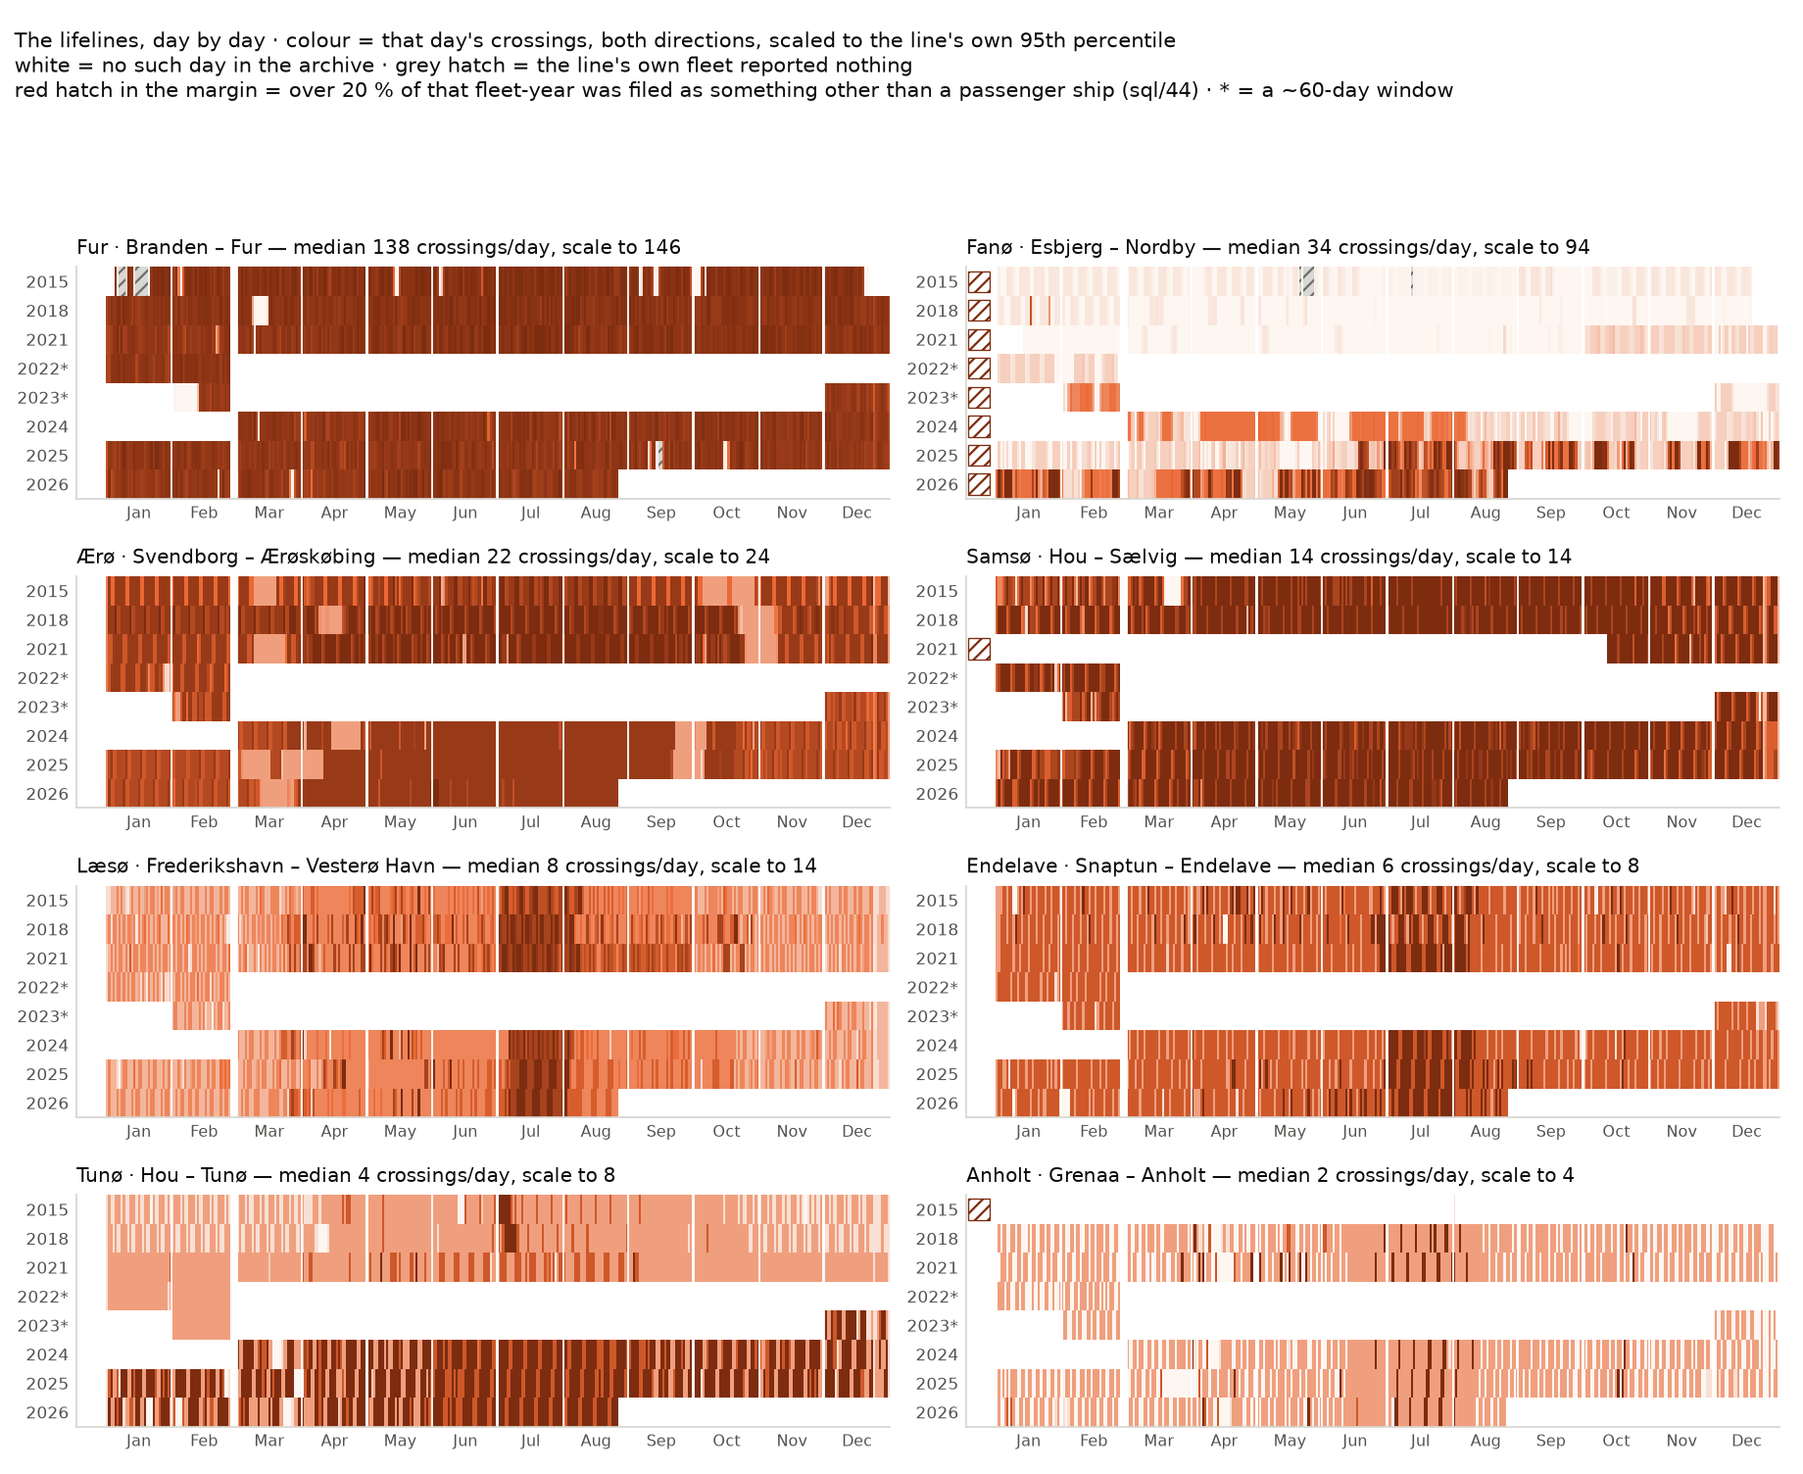
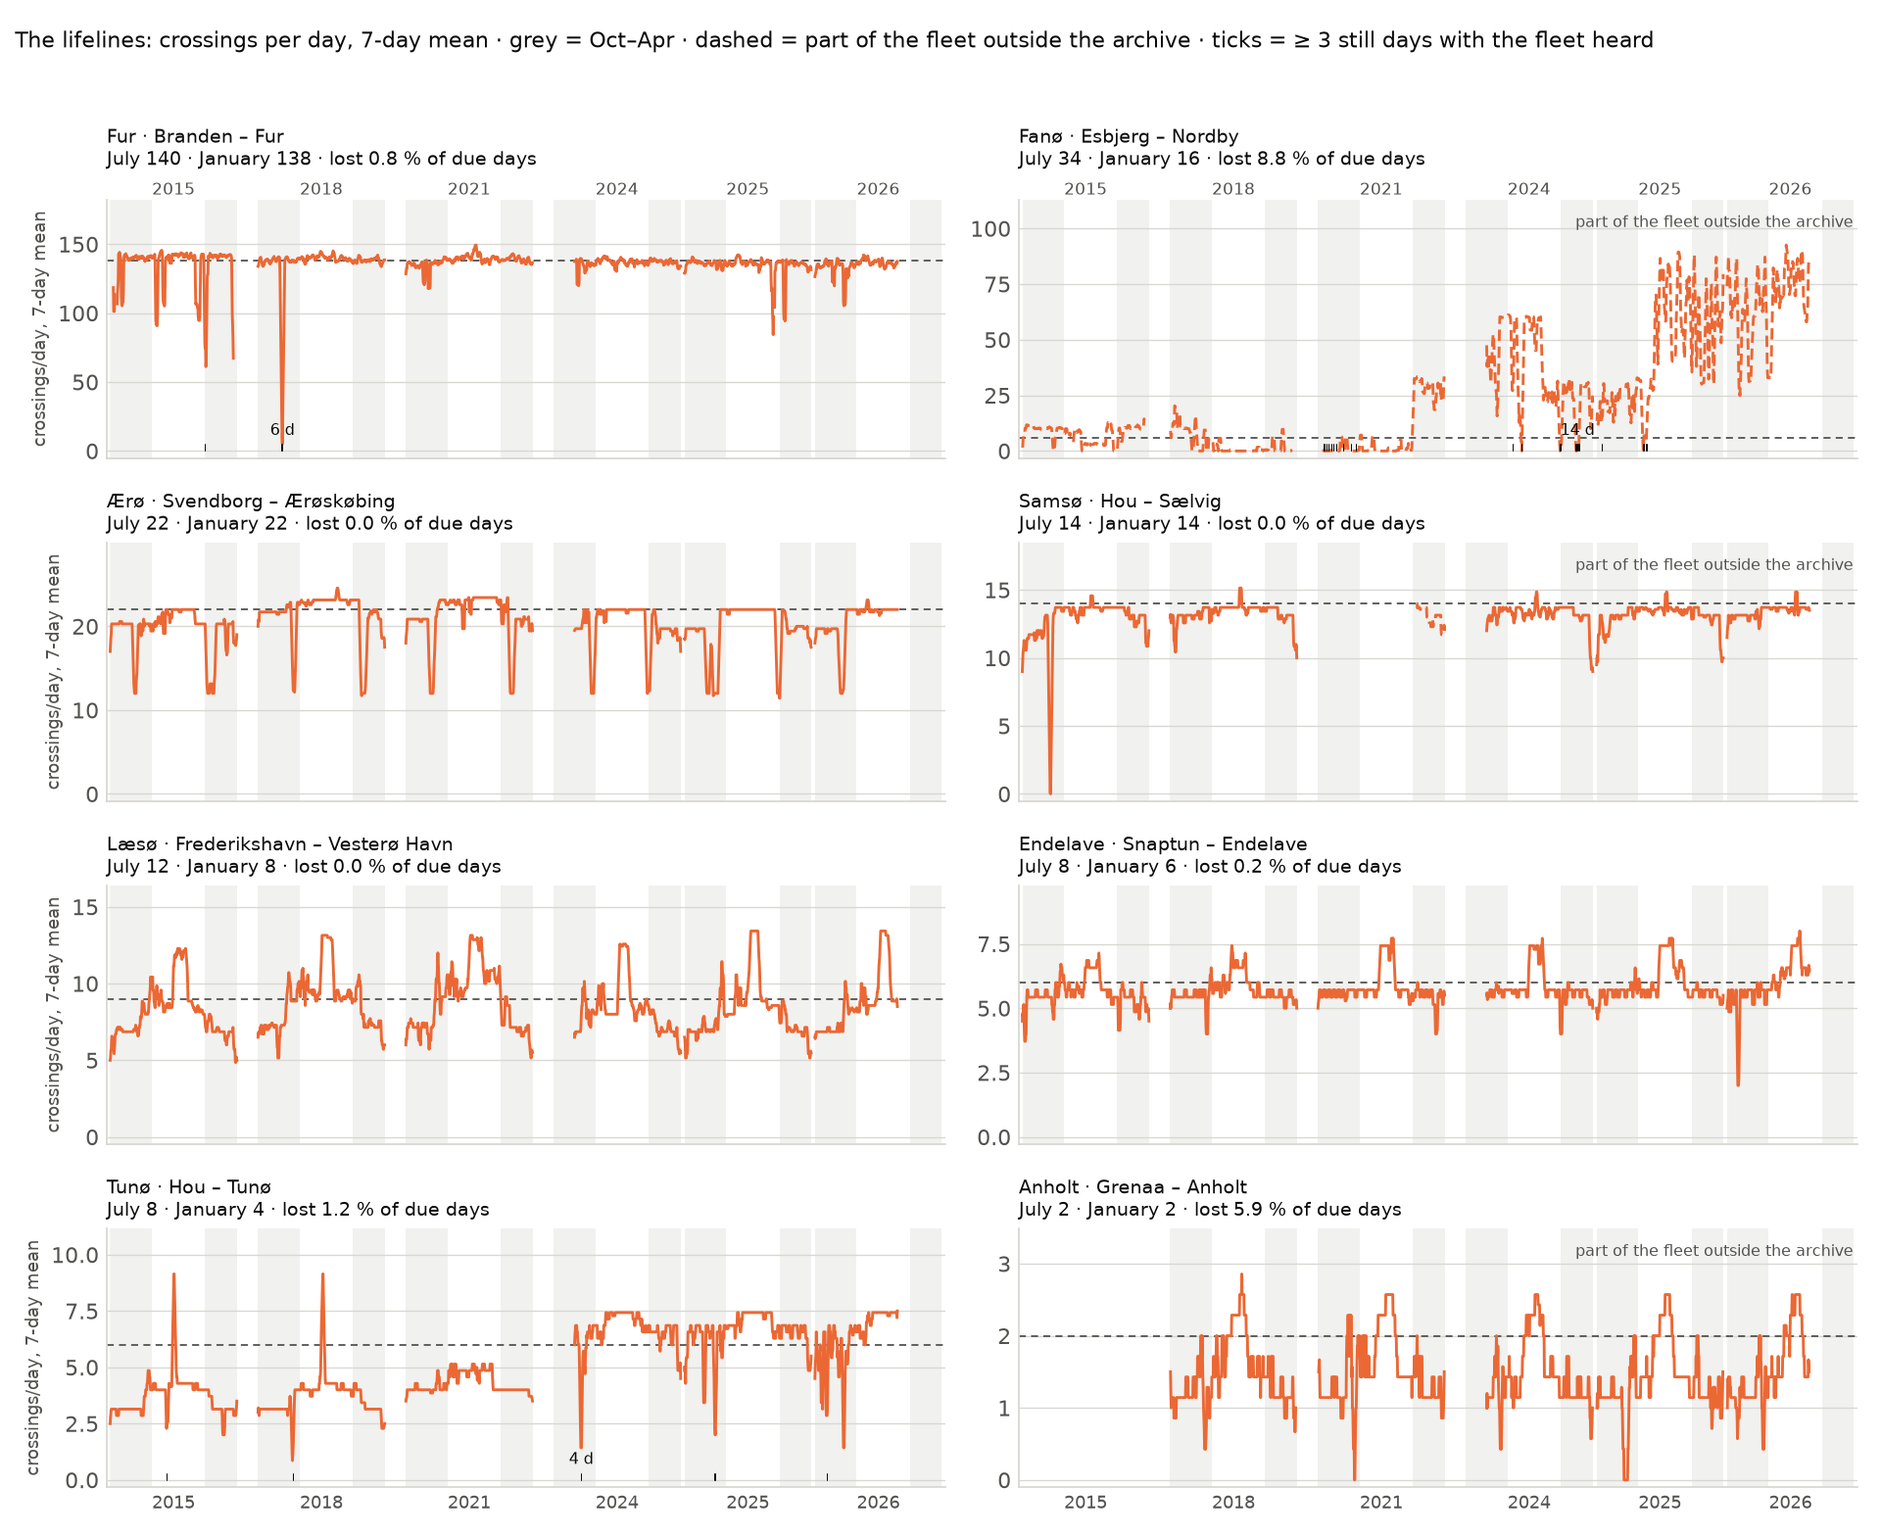
fix(s8): replace the lifelines chart
Per-line 7-day mean of crossings per day on a shared calendar of the six
loaded years, winter band, still-day ticks, dashed years where part of the
fleet is outside the archive. The day-grained heatmap said nothing at a
glance.

Claude-Session: https://claude.ai/code/session_016nqqntXCacnT2ScYyqbq6U

diff --git a/notes/plot_ch03.py b/notes/plot_ch03.py
@@ -45,20 +45,15 @@ import sys
 import matplotlib
 matplotlib.use("Agg")
 import matplotlib.pyplot as plt
-from matplotlib.colors import LinearSegmentedColormap
-from matplotlib.patches import Rectangle
 
 from plot import GRID, IMG, INK, MUTED, ROOT, rows, tidy
 
 FERRY = "#eb6834"                      # the project's ferry orange, plot.GROUPS[1]
-PALE = "#f7d9cb"
 SLATE = "#5b6b73"                      # the contrast series: the big lines
 HIDDEN = "#7d2c10"                     # the hidden-fleet marker
 YEARS = [2015, 2018, 2021, 2024, 2025, 2026]
 WINDOWS = [2022, 2023]                 # storm windows, ~60 winter days each
 KINDS = {"island", "domestic", "international", "foreign", "harbour"}
-MONTHS = ["Jan", "Feb", "Mar", "Apr", "May", "Jun",
-          "Jul", "Aug", "Sep", "Oct", "Nov", "Dec"]
 HIDDEN_MARK = 0.2                      # hidden_share above which chart 1 marks a row
 
 # Chart 1. Eight small-island lifelines, one per island, chosen for range: the
@@ -630,77 +625,187 @@ def replacements(spd):
 
 
 # ------------------------------------------------------------- charts ----
-RAMP = LinearSegmentedColormap.from_list("ferry", ["#fdf6f1", PALE, FERRY, "#7d2c10"])
+def month_median(panel, line, month):
+    """Median crossings on the WEEKDAYS of one month the fleet was heard on.
 
-
-def chart_lifelines(panel, hid_line):
-    """Chart 1 -- eight island lines, every loaded day, six years and two windows.
-
-    One panel per line; one row per loaded year; columns are the calendar,
-    twelve blocks of 31 so the months line up across years of different length.
-    Colour is that day's crossings against the line's own 95th percentile, so
-    the Fur ferry's 138 and Anholt's 2 both fill their scale. A day the archive
-    does not hold is white; a day on which the line's own fleet reported
-    NOTHING is drawn grey and hatched, never as a zero.
-    A hatched bar in the left margin marks a line-year in which more than 20 %
-    of the fleet's reporting days were filed as something other than a
-    passenger ship (sql/44) — those rows are a lower bound, not a measurement.
+    The same figure the § 2 table prints, so a panel subtitle and the note
+    cannot drift apart: weekdays only, because a July that pooled Sundays in
+    would not be the number finding 26 quotes.
     """
-    order = sorted(YEARS + WINDOWS)
-    ny = len(order)
-    fig, axes = plt.subplots(4, 2, figsize=(11.5, 9.4))
+    vals = [row["crossings"] for row in panel
+            if row["line"] == line and loaded(row) and row["fleet_positions"] > 0
+            and row["day"][5:7] == month and row["daytype"] == "weekday"]
+    return statistics.median(vals) if vals else None
+
+
+def still_runs(days, minimum=3):
+    """Maximal runs of >= `minimum` consecutive dates in a sorted list."""
+    out, cur = [], []
+    for day in sorted(days):
+        if cur and days_between(cur[-1], day) == 1:
+            cur.append(day)
+        else:
+            if len(cur) >= minimum:
+                out.append(cur)
+            cur = [day]
+    if len(cur) >= minimum:
+        out.append(cur)
+    return out
+
+
+def rolling(series, window=7, need=4):
+    """Centred `window`-day mean of {date: crossings}, over signal days only.
+
+    Returns {date: mean}. A date whose window holds fewer than `need` signal
+    days has no value at all, so a week the fleet was not heard is a GAP in the
+    drawn line and never a zero — the distinction the whole chapter turns on.
+    """
+    half = window // 2
+    keys = sorted(series)
+    out = {}
+    for day in keys:
+        vals = [series[shift(day, k)] for k in range(-half, half + 1)
+                if shift(day, k) in series]
+        if len(vals) >= need:
+            out[day] = sum(vals) / len(vals)
+    return out
+
+
+def chart_lifelines(panel, hid_line, per_ly):
+    """Chart 1 -- eight island lines as one contiguous six-year time series.
+
+    One panel per line; x is calendar time with the loaded years laid end to
+    end (2015 | 2018 | 2021 | 2024 | 2025 | 2026) and a visible gap where the
+    archive skips. The two 59-day winter windows are not drawn: a 59-day stub
+    beside a full year reads as a collapse in traffic, which is the one thing
+    this chart must not say.
+    y is crossings per day as a 7-day mean over the days the fleet was heard;
+    a week of silence is a gap in the line, never a zero. The dashed grey rule
+    is the line's own May-Sep median, so the winter shortfall is legible
+    without a second axis, and the grey band is Oct-Apr — sql/41's own season
+    split.
+    The dark ticks at y = 0 are runs of three days or more on which the line
+    lay still on a day of the week it normally sails; the longest run in each
+    panel carries its length. A year drawn DASHED is a year in which more than
+    20 % of the line's fleet-days were filed as something other than a
+    passenger ship (sql/44): the line is a lower bound there, not a
+    measurement.
+    """
+    order = [y for y in YEARS]
+    # Consecutive years touch (a short gap so the blocks are countable); a jump
+    # in the archive gets a wide one, so the eye reads 2015 | 2018 as a skip and
+    # 2024 | 2025 as a turn of the year.
+    NEAR, FAR = 10, 60
+    offset, x0 = {}, 0
+    for i, year in enumerate(order):
+        offset[year] = x0
+        length = (datetime.date(year + 1, 1, 1) - datetime.date(year, 1, 1)).days
+        nxt = order[i + 1] if i + 1 < len(order) else None
+        x0 += length + (0 if nxt is None else NEAR if nxt == year + 1 else FAR)
+
+    def xof(day):
+        d = datetime.date.fromisoformat(day)
+        return offset[d.year] + (d - datetime.date(d.year, 1, 1)).days
+
+    index = collections.defaultdict(dict)
+    for row in panel:
+        if loaded(row):
+            index[row["line"]][row["day"]] = row
+
+    fig, axes = plt.subplots(4, 2, figsize=(12.0, 9.8), sharex=True)
+    top_row = set(axes[0])
     for ax, (line, island) in zip(axes.flatten(), LIFELINES):
-        vals = [row["crossings"] for row in panel
-                if row["line"] == line and loaded(row) and row["crossings"] > 0]
-        top = statistics.quantiles(vals, n=20)[-1] if len(vals) > 20 else max(vals)
-        img = [[(1.0, 1.0, 1.0)] * (12 * 31) for _ in range(ny)]
-        silent = []
-        for row in panel:
-            if row["line"] != line or row["year"] not in order:
+        rows_by_day = index[line]
+        drawn_years = 0
+        top = 0
+        for year in order:
+            days = {d: r["crossings"] for d, r in rows_by_day.items()
+                    if r["year"] == year and r["fleet_positions"] > 0}
+            if not days:
                 continue
-            r = order.index(row["year"])
-            month, day = int(row["day"][5:7]), int(row["day"][8:10])
-            c = (month - 1) * 31 + day - 1
-            if row["fleet_positions"] == 0 and row["crossings"] == 0:
-                silent.append((c, r))
-                img[r][c] = (0.85, 0.85, 0.84)
-            else:
-                img[r][c] = RAMP(min(row["crossings"] / top, 1.0))[:3]
-        ax.imshow(img, aspect="auto", interpolation="nearest",
-                  extent=(0, 12 * 31, ny - 0.5, -0.5))
-        for c, r in silent:                       # hatch, so grey is not a level
-            ax.add_patch(Rectangle((c, r - 0.5), 1, 1, facecolor="none",
-                                   edgecolor="#6f6d68", hatch="////",
-                                   linewidth=0.0))
-        for r, year in enumerate(order):          # the hidden-fleet margin
-            share = hidden_share(hid_line, line, year)
-            if share > HIDDEN_MARK:
-                ax.add_patch(Rectangle((-13, r - 0.36), 10, 0.72,
-                                       facecolor="white", edgecolor=HIDDEN,
-                                       hatch="////", linewidth=0.6,
-                                       clip_on=False))
-        for m in range(1, 12):
-            ax.axvline(m * 31, color="white", linewidth=0.8)
-        ax.set_xlim(-14, 12 * 31)
-        ax.set_yticks(range(ny))
-        ax.set_yticklabels([f"{y}*" if y in WINDOWS else str(y) for y in order],
-                           fontsize=7.5)
-        ax.set_xticks([m * 31 + 15.5 for m in range(12)])
-        ax.set_xticklabels(MONTHS, fontsize=7)
-        median = statistics.median(vals) if vals else 0
-        ax.set_title(f"{island} · {line} — median {median:.0f} crossings/day, "
-                     f"scale to {top:.0f}", color=INK, fontsize=9, loc="left")
+            smooth = rolling(days)
+            if not smooth:
+                continue
+            drawn_years += 1
+            hidden = hidden_share(hid_line, line, year) > HIDDEN_MARK
+            # one segment per unbroken stretch, so a silent week is a hole in
+            # the line and not a dive to zero
+            style = (0, (4, 2)) if hidden else "solid"
+            seg_x, seg_y, prev = [], [], None
+            for day in sorted(smooth):
+                if prev is not None and days_between(prev, day) > 1:
+                    ax.plot(seg_x, seg_y, color=FERRY, linewidth=1.3,
+                            linestyle=style)
+                    seg_x, seg_y = [], []
+                seg_x.append(xof(day))
+                seg_y.append(smooth[day])
+                prev = day
+            ax.plot(seg_x, seg_y, color=FERRY, linewidth=1.3, linestyle=style)
+            top = max(top, max(smooth.values()))
+            # Oct-Apr, sql/41's own season split, shaded under the curve
+            for a, b in (("01-01", "04-30"), ("10-01", "12-31")):
+                ax.axvspan(xof(f"{year}-{a}"), xof(f"{year}-{b}"),
+                           color=GRID, alpha=0.35, linewidth=0, zorder=0)
+        # (new) every panel must carry nearly the whole archive; a line that
+        # lost a year to a filter would otherwise be read as a line that ran.
+        assert drawn_years >= 5, \
+            f"{line}: only {drawn_years} of {len(order)} loaded years drawn"
+
+        top = top * 1.22 or 1
+        ax.set_ylim(-0.03 * top, top)
+        tick_y = 0.012 * top
+        median = month_median(panel, line, "07")
+        summer = [r["crossings"] for r in rows_by_day.values()
+                  if r["season"] == "may-sep" and r["fleet_positions"] > 0]
+        if summer:
+            ax.axhline(statistics.median(summer), color=MUTED, linewidth=0.8,
+                       linestyle=(0, (4, 3)), zorder=1)
+        # the still-day ticks
+        due = [d for d, r in rows_by_day.items() if zero_kind(r) == "lay still"
+               and r["baseline"] > 0]
+        runs = still_runs(due)
+        for run in runs:
+            ax.plot([xof(run[0]), xof(run[-1]) + 1], [tick_y, tick_y],
+                    color=INK, linewidth=3.4, solid_capstyle="butt", zorder=4)
+        if runs:
+            longest = max(runs, key=len)
+            ax.annotate(f"{len(longest)} d",
+                        (xof(longest[0]) + len(longest) / 2, tick_y),
+                        xytext=(0, 6), textcoords="offset points", color=INK,
+                        fontsize=7, ha="center", zorder=5)
+        if any(hidden_share(hid_line, line, y) > HIDDEN_MARK for y in order):
+            ax.annotate("part of the fleet outside the archive", (0.995, 0.94),
+                        xycoords="axes fraction", color=MUTED, fontsize=7,
+                        ha="right", va="top")
+        cell = collections.Counter()
+        for year in order:
+            if (line, year) in per_ly:
+                cell.update(per_ly[(line, year)])
+        lost = 100 * cell["lay still, scheduled"] / cell["days"]
+        ax.set_title(f"{island} · {line}\nJuly {fmt(median)} · January "
+                     f"{fmt(month_median(panel, line, '01'))} · lost "
+                     f"{lost:.1f} % of due days",
+                     color=INK, fontsize=8.5, loc="left",
+                     pad=16 if ax in top_row else 6)
         tidy(ax)
-        ax.grid(False)
-        ax.tick_params(colors=MUTED, length=0)
-    fig.suptitle("The lifelines, day by day · colour = that day's crossings, "
-                 "both directions, scaled to the line's own 95th percentile\n"
-                 "white = no such day in the archive · grey hatch = the line's "
-                 "own fleet reported nothing\nred hatch in the margin = over "
-                 "20 % of that fleet-year was filed as something other than a "
-                 "passenger ship (sql/44) · * = a ~60-day window",
-                 color=INK, fontsize=9.5, x=0.008, ha="left")
-    fig.tight_layout(rect=(0, 0, 1, 0.925))
+        ax.grid(axis="y", color=GRID, linewidth=0.6)
+        ax.set_xlim(-NEAR, x0 + NEAR)
+    for ax in axes[:, 0]:
+        ax.set_ylabel("crossings/day, 7-day mean", color=MUTED, fontsize=8)
+    for ax in axes[-1]:
+        ax.set_xticks([offset[y] + 182 for y in order])
+        ax.set_xticklabels([str(y) for y in order], fontsize=8)
+    for ax in axes[0]:                     # the year label at each block's top
+        for year in order:
+            ax.annotate(str(year), (offset[year] + 182, 1.005),
+                        xycoords=("data", "axes fraction"), color=MUTED,
+                        fontsize=7.5, ha="center", va="bottom",
+                        annotation_clip=False)
+    fig.suptitle("The lifelines: crossings per day, 7-day mean · grey = "
+                 "Oct–Apr · dashed = part of the fleet outside the archive · "
+                 "ticks = ≥ 3 still days with the fleet heard",
+                 color=INK, fontsize=10, x=0.008, ha="left")
+    fig.tight_layout(rect=(0, 0, 1, 0.965))
     fig.savefig(IMG / "ch03-lifelines.png", dpi=160, facecolor="white")
 
 
@@ -1347,7 +1452,7 @@ if __name__ == "__main__":
              f"— positions {hals[day]['fleet_positions']}, moving "
              f"{hals[day]['fleet_moving']}")
 
-    chart_lifelines(panel, hid_line)
+    chart_lifelines(panel, hid_line, per_ly)
     dropped = chart_storm(panel, runs, island_lines)
     picks = list(dict.fromkeys(r["line"] for r in replacements(spd)
                                if r["kind"] in ("island", "domestic")))[:4]

diff --git a/notes/ch03-findings.md b/notes/ch03-findings.md
@@ -160,19 +160,24 @@ order shows up as two changed integers rather than as a plausible chart.
 
 ## 2. The lifelines
 
-![The lifelines, day by day](img/ch03-lifelines.png)
+![The lifelines: crossings per day, 7-day mean](img/ch03-lifelines.png)
 
 *`sql/41_ferry_daily.sql` and `sql/44_hidden_fleet.sql`. Eight island lines, one
-row per loaded year, one column per calendar day (twelve blocks of 31, so the
-months line up across years of different length). Colour is that day's
-crossings in both directions, scaled to that line's own 95th percentile — the
-Fur ferry's 138 and Anholt's 2 each fill their own scale. White is a day the
-archive does not hold; grey hatch is a day on which the line's own fleet
-reported **nothing**, drawn as absence and never as a zero. **The red hatch in
-the left margin marks a line-year in which more than 20 % of the fleet's
-reporting days were filed as something other than a passenger ship** — Fanø in
-all eight rows, Samsø in 2021, Anholt in 2015. `*` marks the two 59-day winter
-windows.*
+panel each, on a shared calendar: the six loaded years laid end to end —
+2015 | 2018 | 2021 | 2024 | 2025 | 2026 — with a wide break where the archive
+skips a year and a narrow one where it does not. The two 59-day winter windows
+are not drawn. The orange line is **crossings per day as a 7-day mean over the
+days the line's fleet was heard**; a week of silence is a gap in the line and
+never a zero. The grey band is Oct–Apr, `sql/41`'s own season split, and the
+dashed rule is that line's own May–Sep median, so the winter shortfall is
+legible without a second axis. **A year drawn dashed is a year in which more
+than 20 % of the line's fleet-days were filed as something other than a
+passenger ship** (`sql/44`) — Fanø in every year, Samsø in 2021, Anholt in 2015
+— and its curve is a lower bound, not a measurement. The dark ticks along the
+baseline are runs of **three days or more on which the line lay still on a day
+of the week it normally sails**, the longest in each panel labelled with its
+length. Under each title: the July and January weekday medians of finding 26
+and the share of due days lost of finding 29.*
 
 **Finding 26 — the winter timetable is a different timetable on some islands
 and the same one on others, and the split is not by size.** `sql/41`. Median

diff --git a/docs/STATUS.md b/docs/STATUS.md
@@ -220,6 +220,11 @@ each fix demonstrated by the number that moved:
     that; `sql/44`'s header quoted the judge's pre-floor hidden shares, not
     its own block 2.
 
+After the handoff the user rejected the first lifelines chart (eight
+day-grained heatmaps, unreadable); it was replaced by per-line 7-day means on
+a shared calendar with the winter band, still-day ticks and dashed hidden-fleet
+years (`fix(s8)`), 34 asserts, the other two PNGs byte-identical.
+
 Accepted as is: `h3_a`/`h3_b`/`route_name`/`end_dist_m` stored and unread;
 2.09 % of crossings depart 22:00–23:59 UTC and are keyed to a local day whose
 coverage is the previous UTC day (stated in the header); relief vessels'
